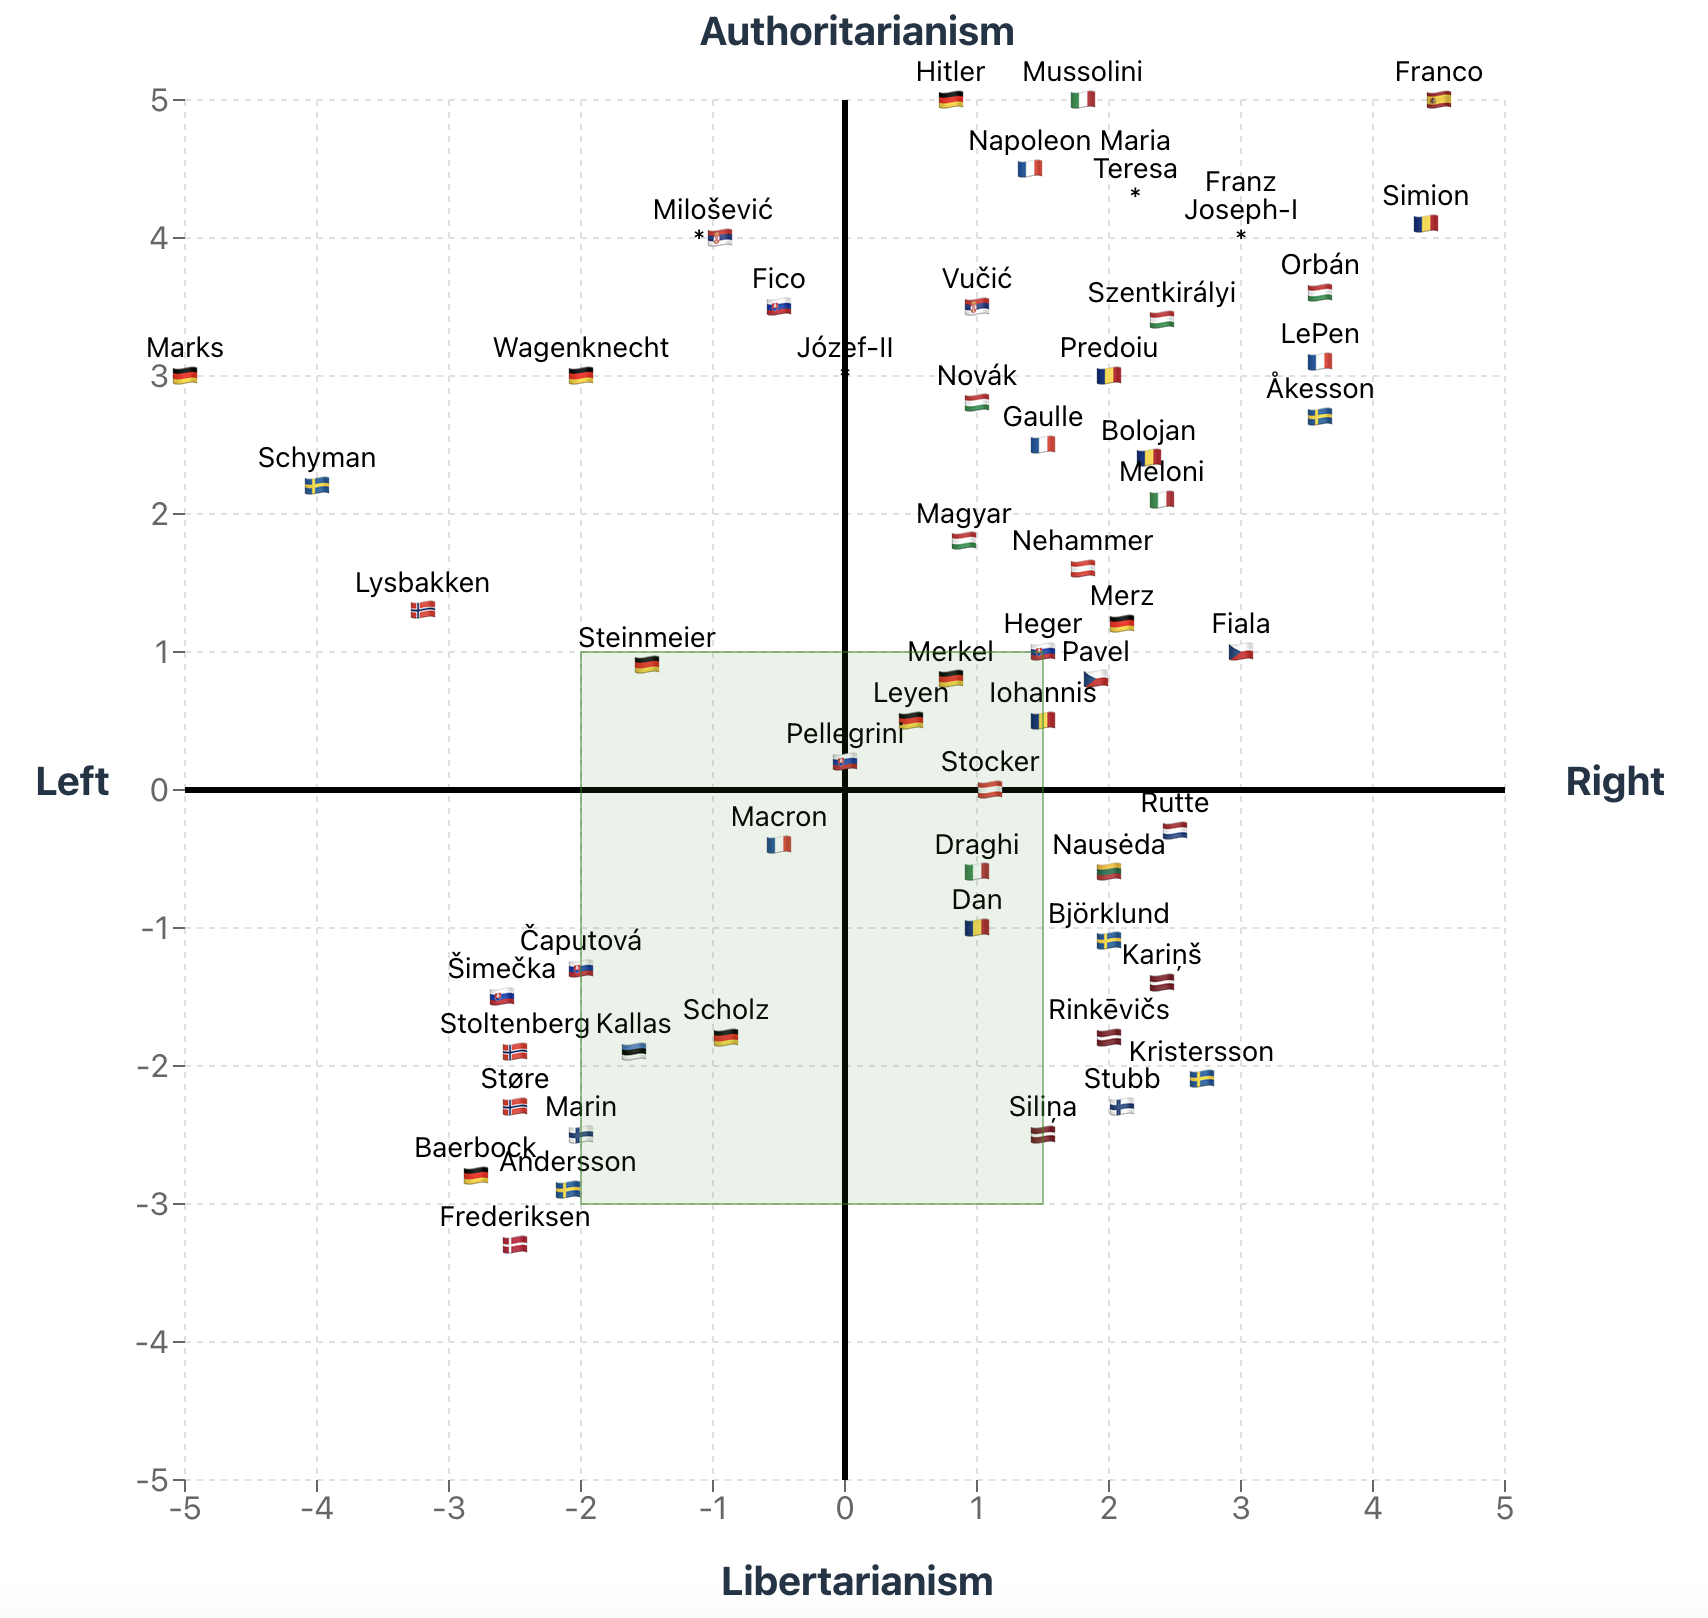
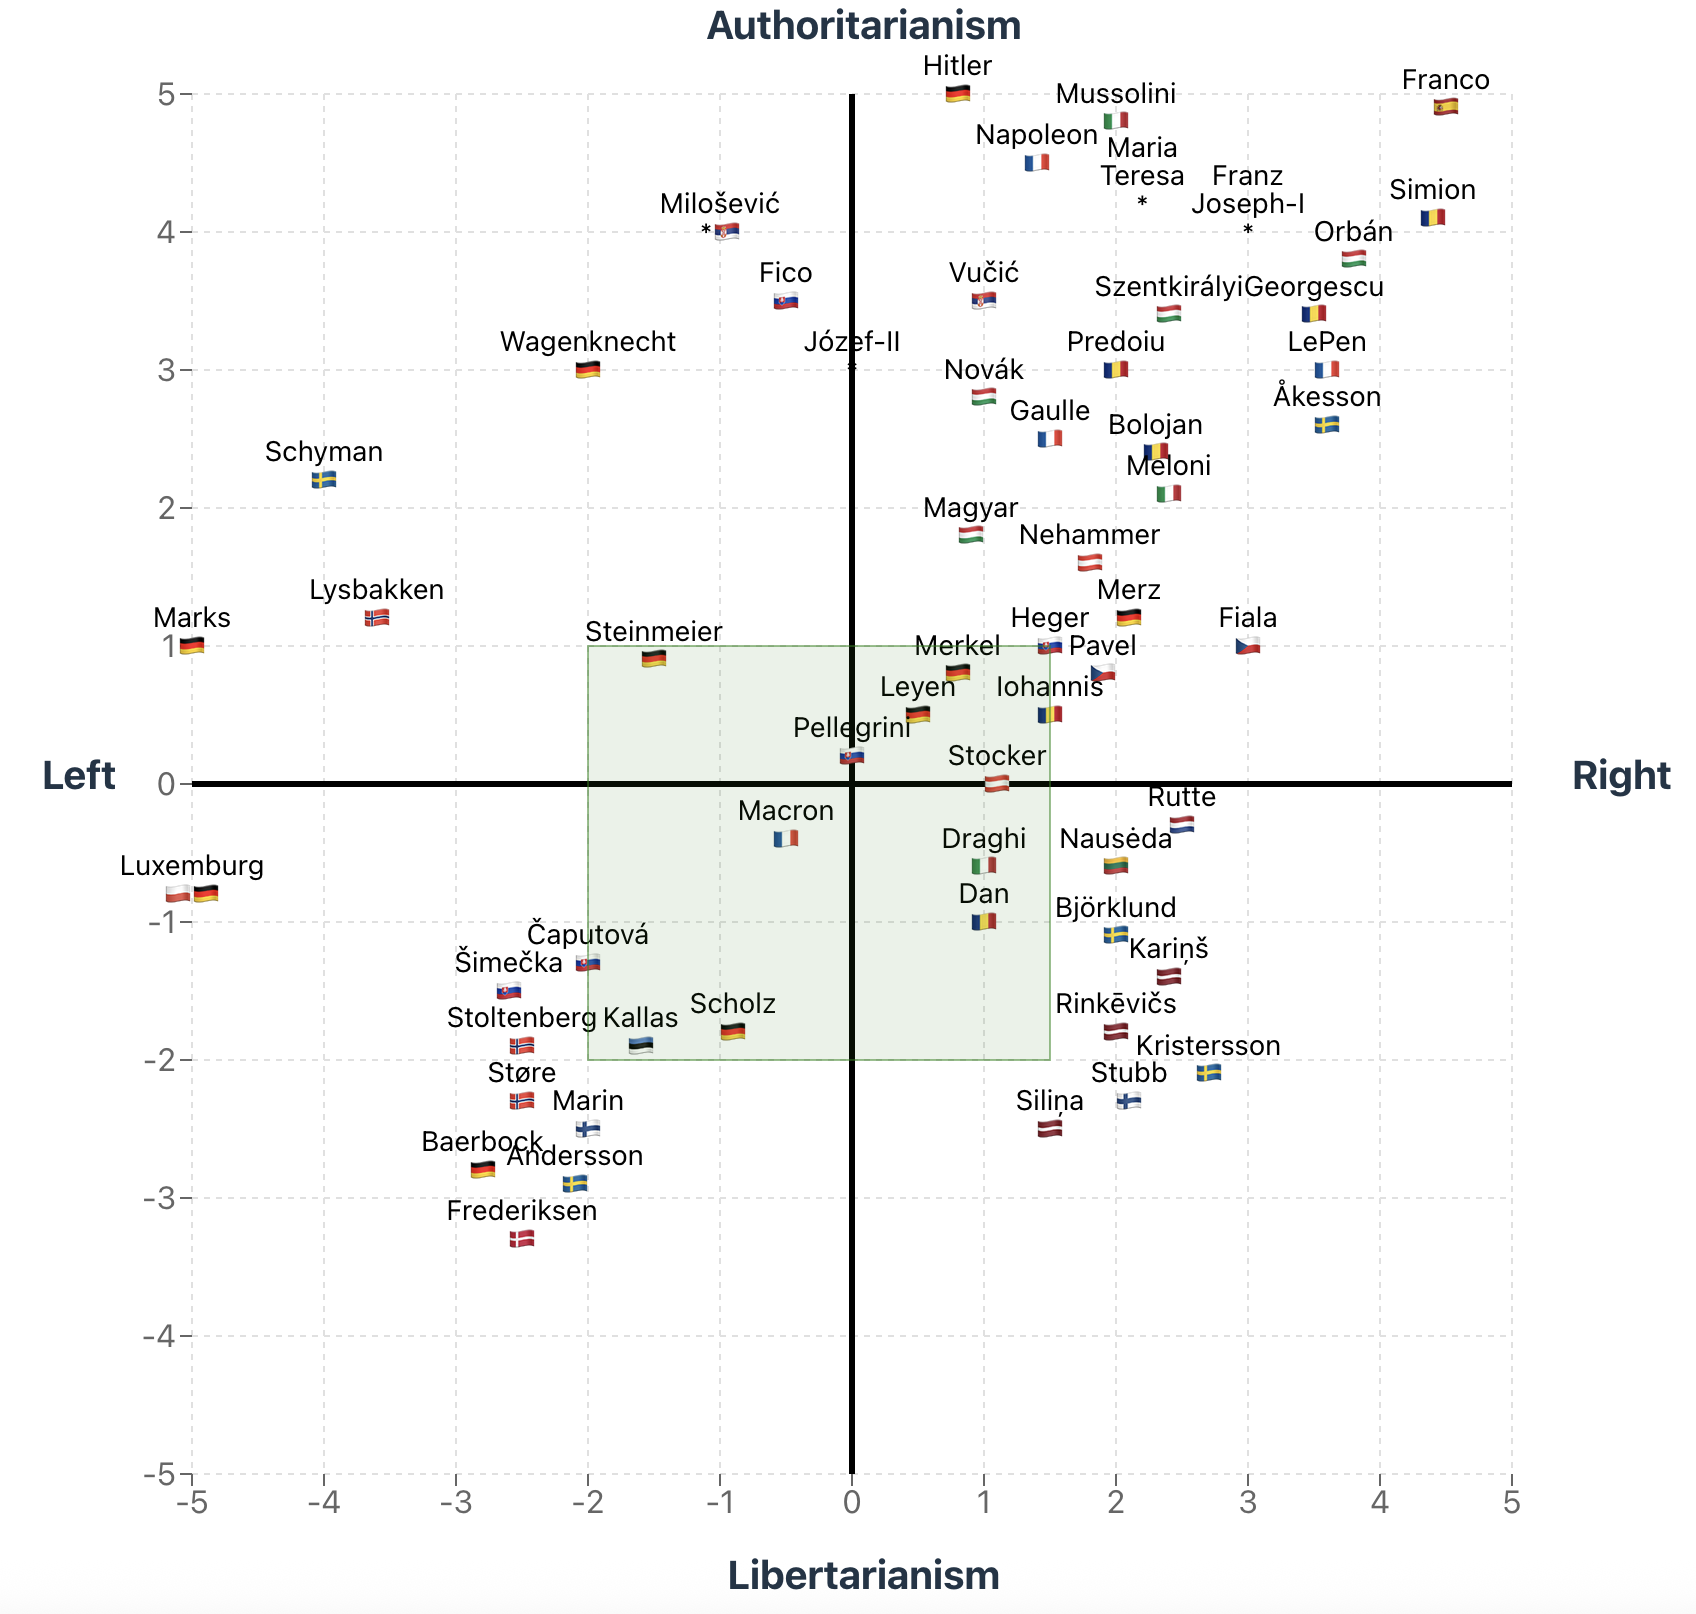
Data changes and small UI changes

diff --git a/src/components/threeColumnLayout.css b/src/components/threeColumnLayout.css
@@ -63,3 +63,47 @@
     height: auto;
   }
 }
+
+@media (prefers-color-scheme: dark) {
+  body {
+    background-color: black;
+    color: white;
+
+    .centerColumn,
+    .column.left,
+    .column.right {
+      color: lightgray;
+    }
+
+    g.recharts-label-list text {
+      fill: lightgray !important;
+    }
+
+    g.recharts-reference-line {
+      line {
+        stroke: lightsalmon;
+      }
+    }
+
+    g.recharts-reference-area {
+      path {
+        fill-opacity: 0.5;
+        stroke-width: 5;
+      }
+    }
+
+    g.recharts-reference-area.politics {
+      path {
+        fill: green;
+        stroke: green;
+      }
+    }
+
+    g.recharts-reference-area.languages {
+      path {
+        fill: red;
+        stroke: red;
+      }
+    }
+  }
+}

diff --git a/src/App.css b/src/App.css
@@ -1,43 +1,5 @@
 #root {
   max-width: 1280px;
   margin: 0 auto;
-  /* padding: 2rem; */
   text-align: center;
-}
-
-/* body {
-  background-color: white;
-  color: black;
-} */
-
-@media (prefers-color-scheme: dark) {
-  body {
-    background-color: black;
-    color: white;
-
-    .centerColumn,
-    .column.left,
-    .column.right {
-      color: lightgray;
-    }
-
-    g.recharts-label-list text {
-      fill: lightgray !important;
-    }
-
-    g.recharts-reference-line {
-      line {
-        stroke: lightsalmon;
-      }
-    }
-
-    g.recharts-reference-area {
-      path {
-        fill: lightgreen;
-        fill-opacity: 0.5;
-        stroke: green;
-        stroke-width: 5;
-      }
-    }
-  }
 }

diff --git a/src/components/ThreeColumnLayout.tsx b/src/components/ThreeColumnLayout.tsx
@@ -64,7 +64,7 @@ const ThreeColumnLayout: React.FC = () => {
             checked={showAndrii}
             onChange={() => setShowAndrii(!showAndrii)}
           />
-          &nbsp; poglądy Andrzeja
+          &nbsp; <span className="bg-green-100">Andrii LUNDIAK</span>
         </label>
       </div>
 
@@ -89,7 +89,7 @@ const ThreeColumnLayout: React.FC = () => {
             checked={showAndriiLang}
             onChange={() => setShowAndriiLang(!showAndriiLang)}
           />
-          &nbsp; język programowania Andrzeja
+          &nbsp; <span className="bg-red-100">Andrii LUNDIAK</span>
         </label>
       </div>
       {duplicateCoordinates.length > 0 && (

diff --git a/src/components/PoliticalCompassChart.tsx b/src/components/PoliticalCompassChart.tsx
@@ -117,6 +117,7 @@ const PoliticalCompassChart: React.FC<PoliticalCompassChartProps> = (props) => {
               fillOpacity={0.1}
               stroke="green"
               strokeOpacity={0.5}
+              className="politics"
             />
           )}
 
@@ -131,6 +132,7 @@ const PoliticalCompassChart: React.FC<PoliticalCompassChartProps> = (props) => {
               fillOpacity={0.1}
               stroke="lightcoral"
               strokeOpacity={0.5}
+              className="languages"
             />
           )}
         </ScatterChart>

diff --git a/src/common/helpers.ts b/src/common/helpers.ts
@@ -183,7 +183,7 @@ export const myPoliticalEdges = {
   x1: 1.5, // I Right
   y1: 1, // II Authoritarian
   x2: -2, // III Left
-  y2: -3, // IV Libertarian
+  y2: -2, // IV Libertarian
 };
 
 // Programming Languages

diff --git a/README.md b/README.md
@@ -28,9 +28,15 @@ But as I always liked politics, and I like to dive deeper into political views o
 
 Most complicated is to define exact number in the scale from `[-5; +5]`, because not always people have definitive political views and spectrum is "tricky" sometimes.
 
-![spectrum](./images/political_spectrum.jpeg)
-
 ## Other Political resources:
+
+- Forgot from where I get this, I think it was from [here](https://www.reddit.com/r/PoliticalCompassMemes/comments/fvghtl/comment_what_you_are_and_we_can_debate_why_youre/) - 2020 version
+
+![reddit_political_spectrum](./images/reddit_political_spectrum.jpeg)
+
+- But [here](https://www.reddit.com/r/PoliticalCompassMemes/comments/13jel85/where_do_you_stand/) is another, 2023 version and looks like more detailed:
+
+![reddit_where_do_you_stand](./images/reddit_where_do_you_stand.png)
 
 - https://en.wikipedia.org/wiki/Political_spectrum
 - https://rationalwiki.org/wiki/Political_Compass
@@ -64,4 +70,4 @@ Most complicated is to define exact number in the scale from `[-5; +5]`, because
 
 ## Bonus. Polityczny kompas języków programowania
 
-![v2-lang](./images/v2--lang.png)
+![v2--lang](./images/v2--lang.png)
